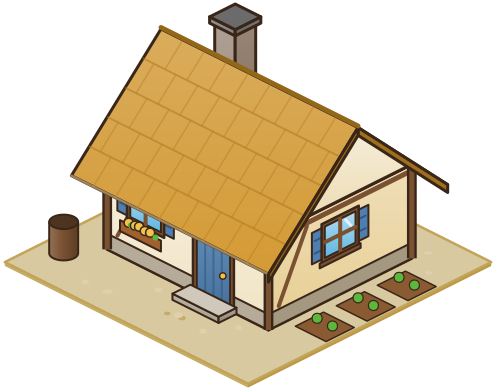
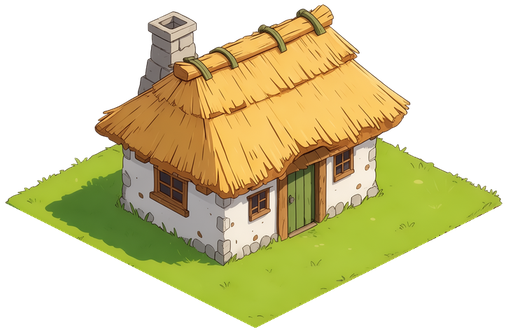
Ludo.ai art: cottage and chicken coop
Both made through the Ludo API in the farmhouse's style (generateWithStyle,
then editImage for winter) and fitted with fit_building.py, which now also
writes the anchor JSON install_prop.py reads. The cottage's chimney smoke
and the chickens' walking area follow the new sprites, and the shadow
suffix test uses a fence post now that the coop has no shadow file.

diff --git a/src/features/animals/textures.ts b/src/features/animals/textures.ts
@@ -2,11 +2,12 @@ import { type PenType } from '../../data/animals';
 import { registerTexture } from '../../scenes/textures';
 
 /**
- * Where animals may walk, in grid units inside the pen. Chickens stay in the coop's run (its front-right
- * yard); cows and sheep stay inside the pasture fence, which runs through the centres of its border tiles.
+ * Where animals may walk, in grid units inside the pen. Chickens stay in the coop's run (the yard in front of
+ * the hen house, which fills the back corner); cows and sheep stay inside the pasture fence, which runs through
+ * the centres of its border tiles.
  */
 export const WALK_AREA: Record<PenType, { x0: number; x1: number; y0: number; y1: number }> = {
-  coop: { x0: 1.9, x1: 2.65, y0: 0.55, y1: 2.45 },
+  coop: { x0: 1.35, x1: 2.6, y0: 1.35, y1: 2.6 },
   pasture: { x0: 0.85, x1: 3.15, y0: 0.85, y1: 3.15 },
 };
 

diff --git a/src/features/families/index.ts b/src/features/families/index.ts
@@ -175,8 +175,8 @@ onGameStart((ctx) => {
 
 // Cottages ---------------------------------------------------------------------------
 
-/** The chimney top in the cottage's 2x sprite (`COTTAGE_CHIMNEY` in `tools/art/buildings.py`). */
-const CHIMNEY_AT = { x: 236, y: 12 };
+/** The chimney top in the cottage's 2x sprite (the Ludo.ai cottage, `tools/ludo/source/cottage_raw.png`). */
+const CHIMNEY_AT = { x: 172, y: 18 };
 const PUFFS = 3;
 
 const puffsOf = new Map<string, Phaser.GameObjects.Image[]>();

diff --git a/src/scenes/art.test.ts b/src/scenes/art.test.ts
@@ -186,7 +186,7 @@ describe('art pack', () => {
   });
 
   it('uses the shadow suffix of the pack’s files', () => {
-    expect(assets.get('chicken_coop')!.res['2x'].shadow).toBe(`2x/buildings/chicken_coop${SHADOW}.png`);
+    expect(assets.get('fence_post')!.res['2x'].shadow).toBe(`2x/fences/fence_post${SHADOW}.png`);
   });
 });
 

diff --git a/tools/ludo/fit_building.py b/tools/ludo/fit_building.py
@@ -5,8 +5,10 @@ Usage: python fit_building.py RAW.png OUT_DIR NAME FOOT_W FOOT_H LEFT_X LEFT_Y R
 LEFT/RIGHT/BOTTOM are the pad's top-surface corners, measured on the raw image (before mirroring).
 FOOT_W/FOOT_H are the footprint in the game (tiles along x / along y) after any mirroring.
 Everything below the top surface's two lower edges (the soil block Ludo draws) is cut away.
-Writes 2x and 1x PNGs and prints the manifest anchor (the footprint's top corner) for each.
+Writes 2x and 1x PNGs and NAME.json (for install_prop.py), and prints the manifest anchor (the footprint's top
+corner) for each.
 """
+import json
 import sys
 import numpy as np
 from PIL import Image
@@ -51,5 +53,6 @@ ax, ay = round(anchor[0] - box[0]), round(anchor[1] - box[1])
 im2.save(f'{out_dir}/2x_{name}.png', optimize=True)
 im1 = im2.resize((round(im2.width / 2), round(im2.height / 2)), Image.Resampling.LANCZOS)
 im1.save(f'{out_dir}/1x_{name}.png', optimize=True)
+json.dump({'2x': [ax, ay], '1x': [ax / 2, ay / 2]}, open(f'{out_dir}/{name}.json', 'w'))
 print(f'2x {im2.width}x{im2.height} anchor {ax},{ay}')
 print(f'1x {im1.width}x{im1.height} anchor {ax / 2:g},{ay / 2:g}')

diff --git a/tools/ludo/README.md b/tools/ludo/README.md
@@ -12,6 +12,9 @@ git (or rerun the commands below) after running it.
 | Asset | Source | Seasons |
 | --- | --- | --- |
 | `farmhouse`, `farmhouse_winter` | `farmhouse_raw.png`, `farmhouse_winter_raw.png` | all |
+| `cottage`, `cottage_winter` | `cottage_raw.png`, `cottage_winter_raw.png` | all |
+| `chicken_coop`, `chicken_coop_winter` | `chicken_coop_raw.png`, `chicken_coop_winter_raw.png` | all |
+| `farmer` (spritesheet) | see **Farmer** below | all |
 | `grass_0..2`, `path_*` (16), `soil_tilled_x/y`, `soil_watered_x/y`, `unowned_0/1` | `grass_a_raw.png`, `grass_b_raw.png`, `dirt_raw.png`, `soil_raw.png`, `snow_raw.png`, `snow_path_raw.png` | all |
 | `tree_oak` (base, `_spring`, `_summer`, `_autumn`, `_winter`) | `tree_oak_raw.png`, `tree_oak_{spring,autumn,winter}_raw.png` | all |
 | `tree_apple` (base, `_spring`, `_summer`, `_autumn`, `_winter`) | `tree_apple_raw.png`, `tree_apple_{spring,autumn,winter}_raw.png` | all |
@@ -45,9 +48,27 @@ $P $L/fit_building.py $L/source/farmhouse_raw.png /tmp farmhouse 2 2 45 485 754 
 $P $L/fit_building.py $L/source/farmhouse_winter_raw.png /tmp farmhouse_winter 2 2 57 609 967 609 512 834 --mirror --keep=-4
 ```
 
-Copy `/tmp/2x_<name>.png` and `/tmp/1x_<name>.png` to `public/assets/farm/{2x,1x}/buildings/<name>.png` and
-set the asset's `w`, `h`, `anchor` and `origin` (anchor / size) in `manifest.json`; drop its `shadow` (Ludo
-draws the shadow on the pad). `--keep=N` is how many px below the pad's edge stay (default 2, the outline);
+Later buildings came through the API: `generateWithStyle` with the farmhouse image as `style_image` and the
+farmhouse's own prompt reworded for the building (south corner to the viewer, 2:1 angle, straight-edged diamond
+pad of N×N tiles with no thickness), then `editImage` on the chosen one for winter ("keep the same ... exactly;
+add snow on the roof ..., cover the pad in snow"). The pad corners are the extreme opaque columns, with the
+bottom corner where the two 2:1 edges meet; check them on an overlay before fitting.
+
+```bash
+$P $L/fit_building.py $L/source/cottage_raw.png /tmp/props cottage 2 2 45 321 754 323 401.5 499.2
+$P $L/fit_building.py $L/source/cottage_winter_raw.png /tmp/props cottage_winter 2 2 53 309 739 310 397 481
+$P $L/fit_building.py $L/source/chicken_coop_raw.png /tmp/props chicken_coop 3 3 40 349 727 348 382.5 520.2
+$P $L/fit_building.py $L/source/chicken_coop_winter_raw.png /tmp/props chicken_coop_winter 3 3 40 348 726 347 382 519
+for n in cottage cottage_winter chicken_coop chicken_coop_winter; do $P $L/install_prop.py /tmp/props $n; done
+```
+
+Install with `install_prop.py` (it reads the `NAME.json` the fit writes), or copy `/tmp/2x_<name>.png` and
+`/tmp/1x_<name>.png` to `public/assets/farm/{2x,1x}/buildings/<name>.png` and set the asset's `w`, `h`, `anchor`
+and `origin` (anchor / size) in `manifest.json` by hand; either way the `shadow` goes (Ludo draws the shadow on
+the pad). Some code points into a building's 2x sprite and needs updating with it: the cottage's chimney
+(`CHIMNEY_AT` in `src/features/families/index.ts`), the coop's run (`WALK_AREA` in
+`src/features/animals/textures.ts`), and the bakery's, dairy's and weaving hut's smoke (`SMOKE_AT` in
+`src/features/processing/textures.ts`). `--keep=N` is how many px below the pad's edge stay (default 2, the outline);
 lower it if bits of the soil outline show.
 
 ## Props: `fit_prop.py`
